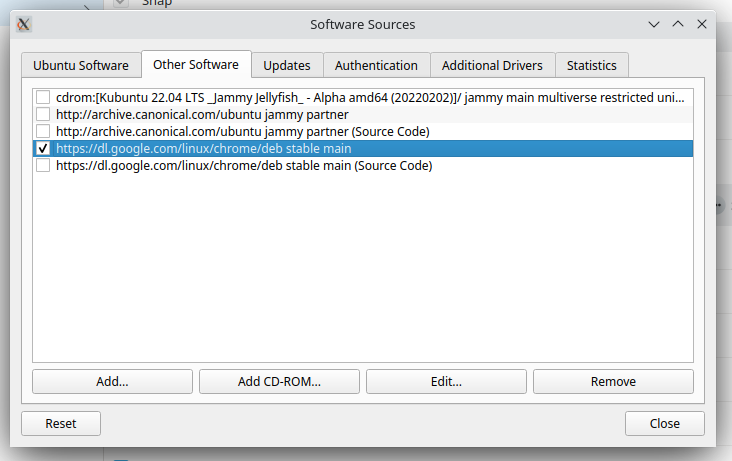
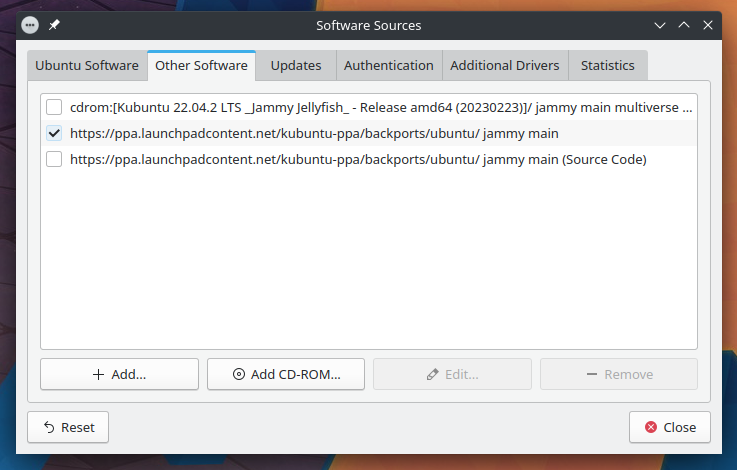
Update images

diff --git a/source/docs/software-management/repositories.rst b/source/docs/software-management/repositories.rst
@@ -17,12 +17,7 @@ Two factors are used to determine categories
 
 The standard Kubuntu LiveDVD contains some software from the "Main" and "Restricted" categories. Once a system has information about the Internet-based locations for these repositories, more programs are available for installation. Using the software package management tools installed by default, it is possible to discover, install, and update any piece of software directly over the internet without the need for the LiveDVD. 
 
-For more information about managing repositories, check the click on Repositories section of this manual. For even more information check the Ubuntu Wiki about `managing Repositories <https://help.ubuntu.com/community/Repositories>`_.
-
-PPAs (Personal Package Archive)
---------------------------------
-
-Personal Package Archives allow any person in the Ubuntu community who has committed to observe the `Ubuntu Code of Conduct <https://launchpad.net/codeofconduct>`_ to upload Ubuntu source packages to be built and published as an apt repository by Launchpad. Software from Launchpad's `Personal Package Archive <https://launchpad.net/ubuntu/+ppas>`_ (PPA) requires a `GnuPG  <https://www.gnupg.org/>`_ (GPG) key so your system can verify that it's getting the packages from the correct source and that the packages have not been interfered with since they were built. GnuPG is GNU's tool for secure communication and data storage. For more information about PPAs, click on the Repositories section of this manual. 
+For more information check the Ubuntu Wiki about `managing Repositories <https://help.ubuntu.com/community/Repositories>`_.
 
 Kubuntu Backports
 -------------------
@@ -31,10 +26,15 @@ The Kubuntu Backports are "Backports of new versions of KDE Platform, Plasma and
 
 https://launchpad.net/~kubuntu-ppa/+archive/ubuntu/backports
 
+PPAs (Personal Package Archive)
+--------------------------------
+
+Personal Package Archives allow any person in the Ubuntu community who has committed to observe the `Ubuntu Code of Conduct <https://launchpad.net/codeofconduct>`_ to upload Ubuntu source packages to be built and published as an apt repository by Launchpad. Software from Launchpad's `Personal Package Archive <https://launchpad.net/ubuntu/+ppas>`_ (PPA) requires a `GnuPG  <https://www.gnupg.org/>`_ (GPG) key so your system can verify that it's getting the packages from the correct source and that the packages have not been interfered with since they were built. GnuPG is GNU's tool for secure communication and data storage.  
+
 Managing Personal Package Archives
 ~~~~~~~~~~~~~~~~~~~~~~~~~~~~~~~~~~~
 
-Personal Package Archives allow any person in the Ubuntu community who has committed to observe the `Ubuntu Code of Conduct <https://launchpad.net/codeofconduct>`_ to upload Ubuntu source packages to be built and published as an apt repository by Launchpad. Software from Launchpad's `Personal Package Archive <https://launchpad.net/ubuntu/+ppas>`_ (PPA) requires a `GnuPG <https://www.gnupg.org/>`_ (GPG) key so your system can verify that it's getting the packages from the correct source and that the packages have not been interfered with since they were built. GnuPG is GNU's tool for secure communication and data storage.
+Personal Package Archives allow any person in the Ubuntu community who has committed to observe the `Ubuntu Code of Conduct <https://launchpad.net/codeofconduct>`_ to upload Ubuntu source packages to be built and published as an apt repository on Launchpad. `Launchpad <https://launchpad.net/>`_ this is a website which hosts packages for Ubuntu based distos like Kubuntu, Linux Mint and elementary. Software from Launchpad's `Personal Package Archive <https://launchpad.net/ubuntu/+ppas>`_ (PPA) requires a `GnuPG <https://www.gnupg.org/>`_ (GPG) key so your system can verify that it's getting the packages from the correct source and that the packages have not been interfered with since they were built. GnuPG is GNU's tool for secure communication and data storage.
 
 **Important**: The contents of Personal Package Archives are not checked or monitored. You install software from them at your own risk. 
 
@@ -43,10 +43,24 @@ Add a PPA
 
 You can use the Discover to add a PPA:
 
-1. Open the Launchpad PPA overview page in your browser for example look at the Kubuntu Backports PPA
+1. Open the Launchpad PPA overview page in your browser for example look at the `Kubuntu Backports PPA <https://launchpad.net/~kubuntu-ppa/+archive/ubuntu/backports>`_
 2. Look for the 'Adding this PPA to your system' section
-3. Open Konsole then copy (Ctrl+C once the command is highlighted) 
-4. Now paste (Ctrl+Shift+V in terminals like Konsole) and press the Enter key
+3. Left-click the ‘Software Sources’ button to the right of ‘Ubuntu Jammy Jellyfish’
+4. Enter your administrative password at the prompt.
+5. Left-click on the 'Other Software' tab
+
+.. image:: ../../images/jammy/repositories/discover-edit.png
+    :align: center
+    :scale: 75 %
+
+.. image:: ../../images/jammy/repositories/discover-add-kubuntu_backports.png
+    :align: center
+    :scale: 75 %
+
+For using Konsole follow these steps:
+
+1. Open Konsole then copy (Ctrl+C once the command is highlighted)
+2. Now paste (Ctrl+Shift+V in terminals like Konsole) and press the Enter key
 
 .. image:: ../../images/jammy/repositories/konsole-add-ppa.png
     :align: center
@@ -59,9 +73,9 @@ Remove a PPA
 
 You can use the Discover to remove a PPA:
 
-1. Open Discover then left-click Settings on the bottom left
+1. Open Discover then go to Settings
 
-.. image:: ../../images/jammy/repositories/discover-manage.png
+.. image:: ../../images/jammy/repositories/discover-edit.png
     :align: center
     :scale: 75 %
 
@@ -69,7 +83,7 @@ You can use the Discover to remove a PPA:
 3. Enter your administrative password at the prompt.
 4. Left-click on the 'Other Software' tab
 
-.. image:: ../../images/jammy/repositories/discover-other-software-hidpi.png
+.. image:: ../../images/jammy/repositories/discover-other-software.png
     :align: center
 
 5. Left-click the PPA that you want to remove
